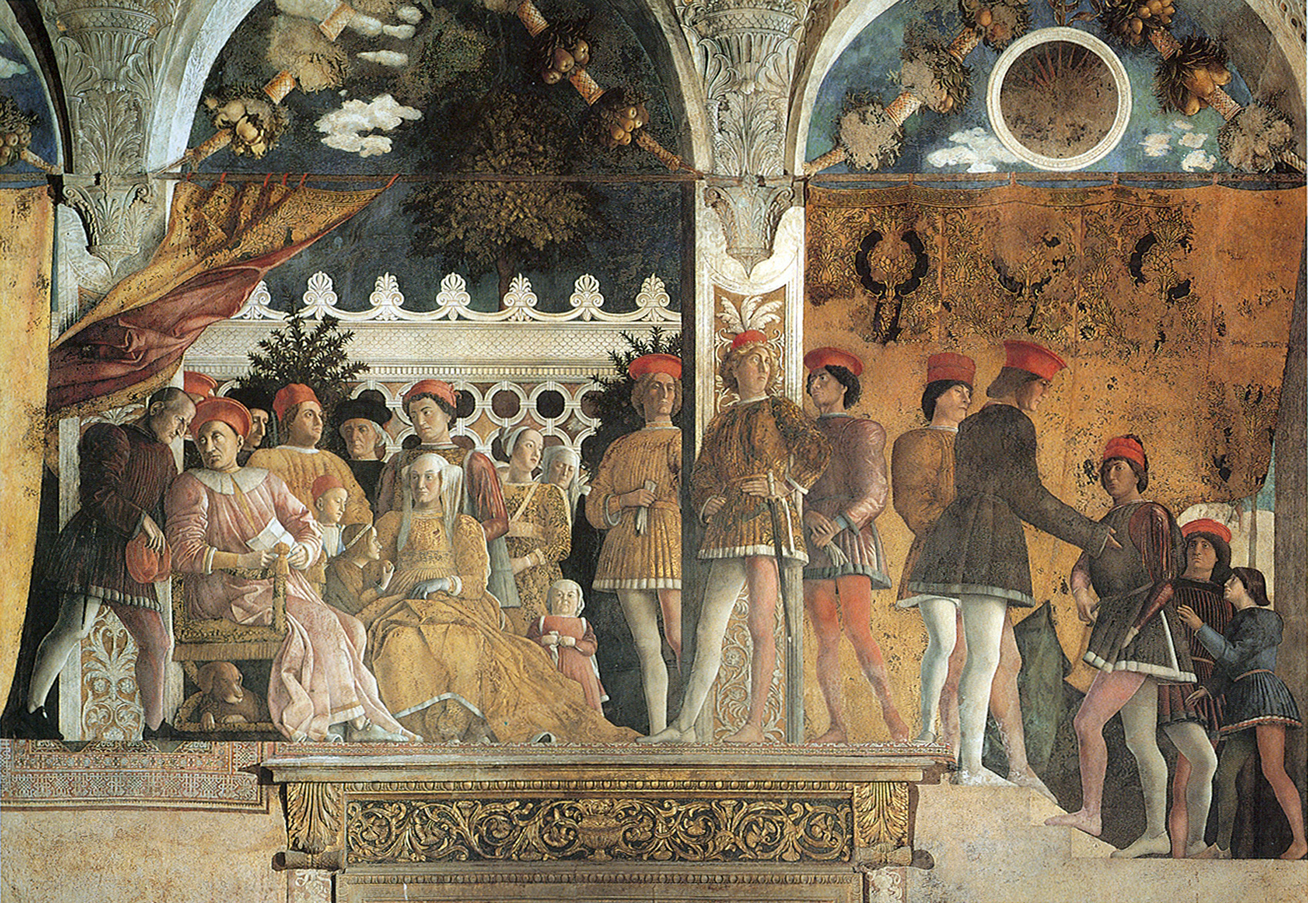
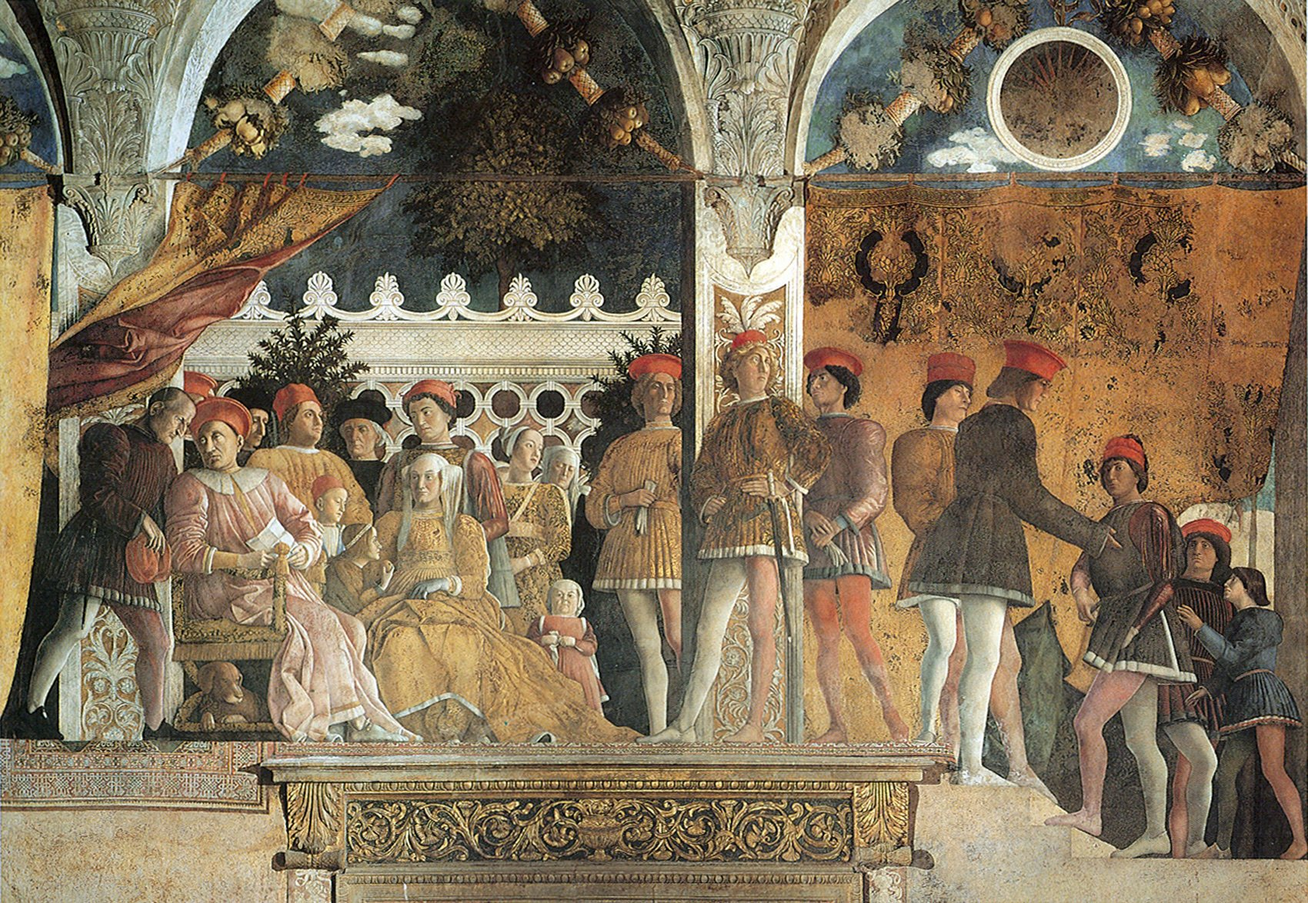
Lighter pictures: the JPEGs re-saved at web quality, same pixel sizes, so the doors open sooner
- 28 gallery pictures re-saved at JPEG quality 85 (they were near-maximum); close-ups compared at Retina
  sharpness, including Amelia, Mishka and Trogdor, with no visible change
- The postcard copies of Primavera and Amaryllis cut to 2048 px wide (they only show on the rack and the card)
- Pictures 66 MB -> 43 MB as loaded; the whole gallery ~84 MB -> ~61 MB over the wire
- HANDOFF notes how to save new pictures, and what is still to slim (the postcard rack, the scans)

diff --git a/Wedding website planning/HANDOFF.md b/Wedding website planning/HANDOFF.md
@@ -535,6 +535,11 @@ _Brought up to date 25 Sept 2026 (the repo at `3e55499`)._
   quicker) plus a very slight head-bob: both declined 25 Sept 2026; the walking stays as it is.
 
 **Housekeeping**
+- Download size: the doors wait until every picture and scan has loaded. On 25 Sept 2026 the gallery's JPEGs were
+  re-saved at quality 85 with their pixel sizes kept (the postcard copies of Primavera and Amaryllis cut to 2048 px
+  wide), taking the load from ~92 MB to ~69 MB (~61 MB over the wire; Vercel brotli-compresses the `.glb` scans).
+  Save new pictures the same way. Still to slim: the gift shop's postcard rack draws its cards from 12 full-size
+  pictures, and the sculpture scans (~26 MB).
 - The 3D build's performance has only been checked on a desktop (phones get the mobile edition). Wing I carries
   ~300k triangles of roses.
 - Dead code that could be removed: `sign()` / `signTexture()` (the old WING I/II wall labels).
